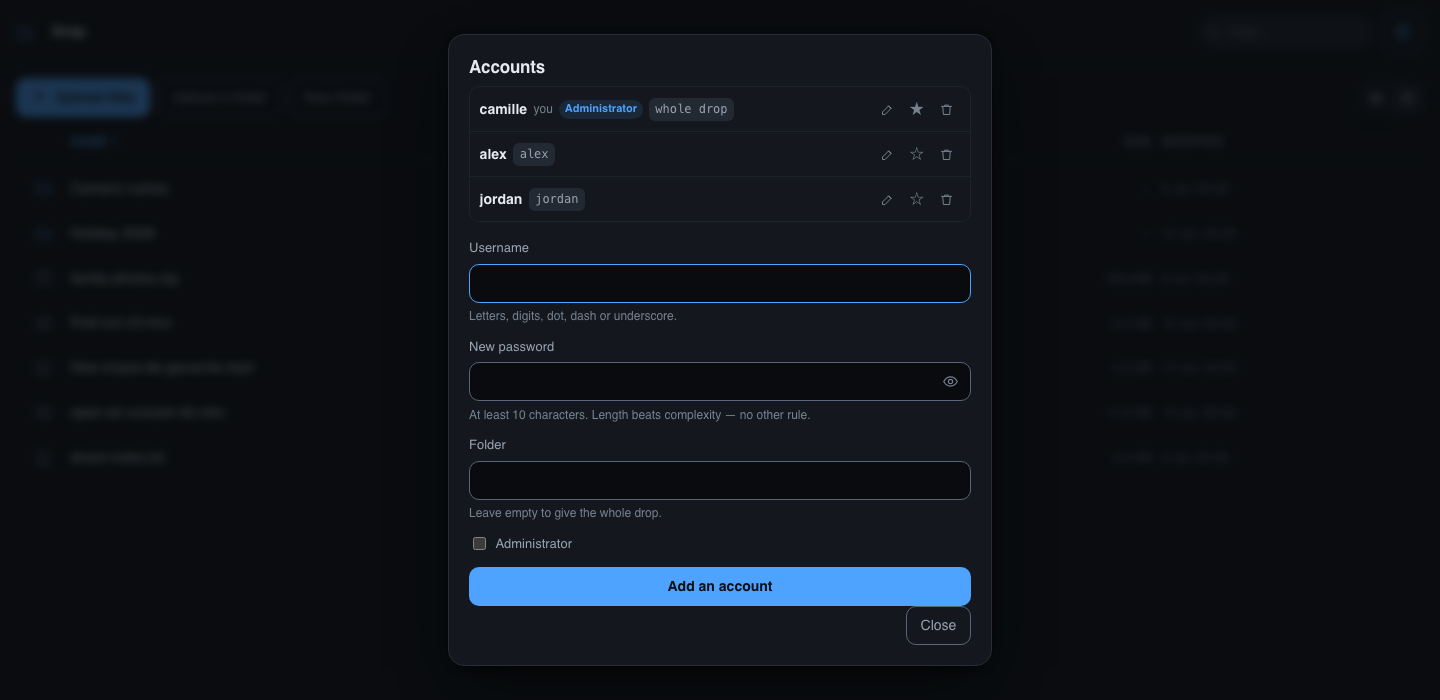
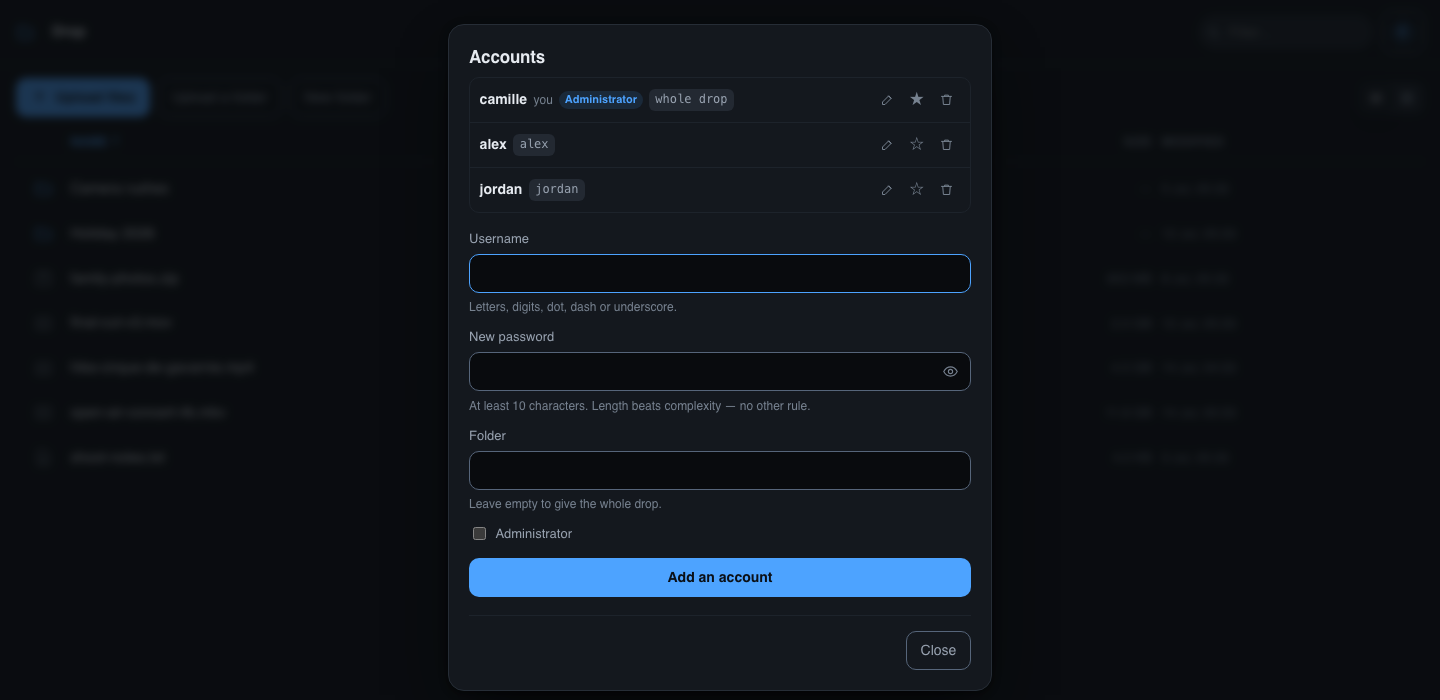
Separate the dialog's dismiss from the form, and version the assets
The accounts panel put its Close button flush against the form's submit, so the
two read as one group and the wrong one looked like the way out. The dismiss now
sits below a hairline, clearly the dialog's own action rather than the form's.

Fixing that surfaced something larger. The change was deployed and the public URL
kept serving the old stylesheet: the CDN in front had cached it for four hours.
Worse than a delay, that class of bug can serve a stale stylesheet next to a fresh
script and break the interface in a way redeploying does not fix.

index.html is now never cached and points at app.css?v=<fingerprint> and
app.js?v=<fingerprint>, hashed from the embedded files themselves and served
immutable for a year. Both URLs move together, so a mismatch cannot happen, and a
deploy reaches everyone at once.

diff --git a/gateway/web/app.css b/gateway/web/app.css
@@ -773,7 +773,21 @@ body.is-loading .listing, body.is-loading .empty { display: none; }
 }
 .sheet-input:focus { outline: none; border-color: var(--accent); background: var(--surface); }
 
-.sheet-actions { display: flex; justify-content: flex-end; gap: .5rem; }
+.sheet-actions {
+  display: flex;
+  justify-content: flex-end;
+  gap: .5rem;
+  margin-top: .6rem;
+}
+
+/* The accounts panel holds two action areas: the form's own submit, and the
+   dialog's dismiss. Sitting flush against each other they read as one group and
+   the wrong button looks like the way out, so the dismiss is separated. */
+.acc-new + .sheet-actions {
+  margin-top: 1.15rem;
+  padding-top: .9rem;
+  border-top: 1px solid var(--line-soft);
+}
 
 .sheet-card.is-wide { max-width: 34rem; }
 

diff --git a/gateway/main.go b/gateway/main.go
@@ -641,10 +641,22 @@ func (s *server) handleStatic(w http.ResponseWriter, r *http.Request) {
 	case ".html":
 		w.Header().Set("Content-Type", "text/html; charset=utf-8")
 		w.Header().Set("Cache-Control", "no-cache")
-	case ".css":
-		w.Header().Set("Content-Type", "text/css; charset=utf-8")
-	case ".js":
-		w.Header().Set("Content-Type", "text/javascript; charset=utf-8")
+		body = []byte(strings.NewReplacer(
+			`href="app.css"`, `href="app.css?v=`+assetVer+`"`,
+			`src="app.js"`, `src="app.js?v=`+assetVer+`"`,
+		).Replace(string(body)))
+	case ".css", ".js":
+		if path.Ext(name) == ".css" {
+			w.Header().Set("Content-Type", "text/css; charset=utf-8")
+		} else {
+			w.Header().Set("Content-Type", "text/javascript; charset=utf-8")
+		}
+		// Safe to keep for a year: a change to either file changes the URL.
+		if r.URL.Query().Get("v") != "" {
+			w.Header().Set("Cache-Control", "public, max-age=31536000, immutable")
+		} else {
+			w.Header().Set("Cache-Control", "no-cache")
+		}
 	case ".svg":
 		w.Header().Set("Content-Type", "image/svg+xml")
 	case ".webmanifest":
@@ -699,3 +711,22 @@ func bytesReader(b []byte) *bytes.Reader { return bytes.NewReader(b) }
 // buildTime is fixed so ServeContent hands out a stable Last-Modified for the
 // embedded assets; they only change when the binary does.
 var buildTime = time.Now()
+
+// assetVer fingerprints the embedded interface. The stylesheet and the script
+// are served under ?v=<fingerprint> and cached hard, while index.html — which
+// carries those URLs — is never cached. Without this a CDN happily serves a
+// four-hour-old stylesheet next to a fresh script, and the interface breaks in a
+// way no amount of redeploying fixes.
+var assetVer = fingerprintAssets()
+
+func fingerprintAssets() string {
+	h := sha256.New()
+	for _, name := range []string{"index.html", "app.css", "app.js"} {
+		b, err := fs.ReadFile(webFS(), name)
+		if err != nil {
+			return strconv.FormatInt(buildTime.Unix(), 36)
+		}
+		h.Write(b)
+	}
+	return base64.RawURLEncoding.EncodeToString(h.Sum(nil))[:10]
+}

diff --git a/README.md b/README.md
@@ -273,6 +273,15 @@ UX, Baymard) rather than by eye, which is how the following got caught:
 - **320px wide works**: one column, no horizontal scroll, keyboard-reachable
   actions visible when focused rather than only on hover.
 
+### Assets and caches
+
+`index.html` is never cached and points at `app.css?v=<fingerprint>` and
+`app.js?v=<fingerprint>`, computed from the embedded files themselves; those are
+served `immutable` for a year. This is not premature optimisation — a CDN in front
+will otherwise happily cache a stylesheet for hours and serve it next to a fresh
+script, which breaks the interface in a way redeploying does not fix. Tying both
+URLs to one fingerprint makes a mismatch impossible.
+
 ## Security
 
 **Uploaded files cannot script the origin.** This is the one that matters most on
